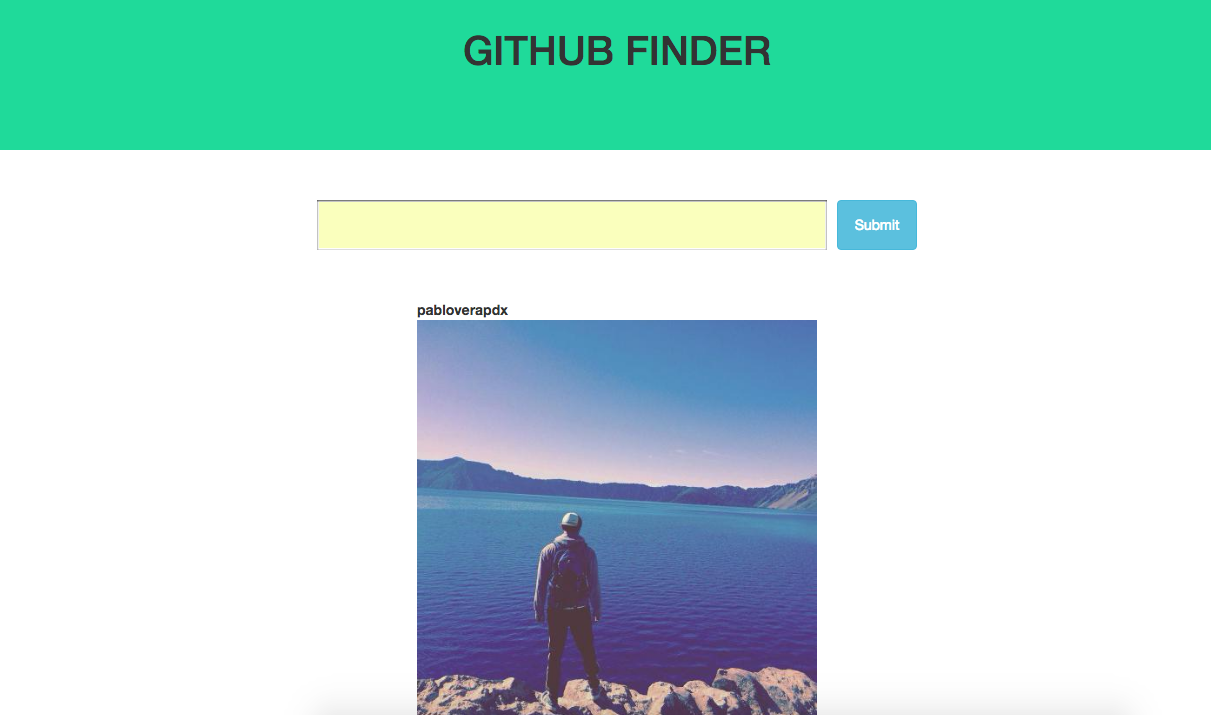
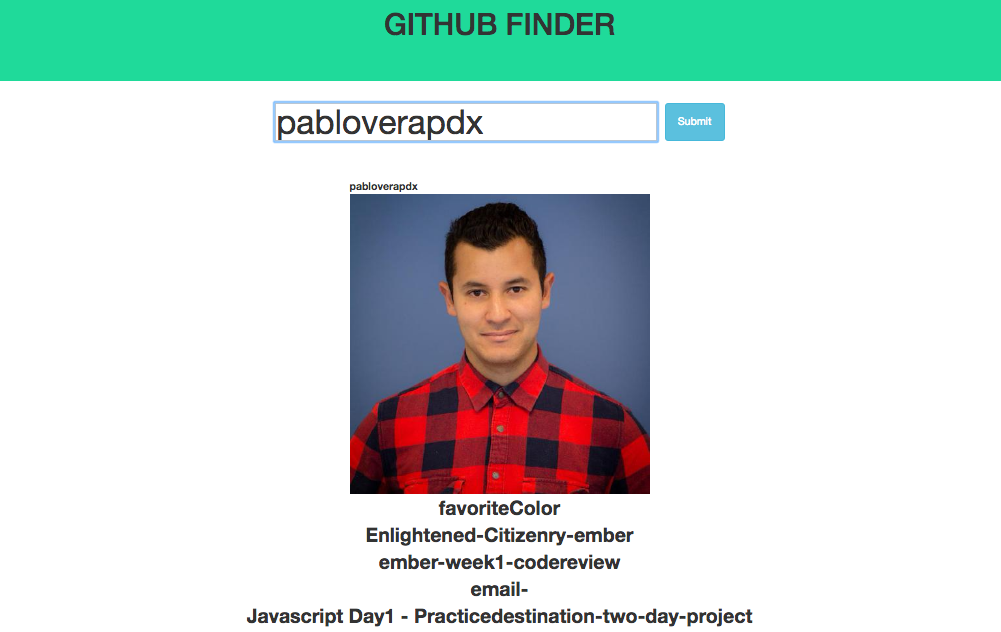
update img screeshot on readme file - increase repo result font size and weight

diff --git a/scss/styles.scss b/scss/styles.scss
@@ -61,4 +61,6 @@ button {
 
 .repositories {
   text-align: center;
+  font-size: 26px;
+  font-weight: 600;
 }
